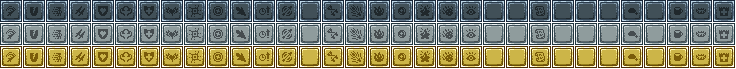
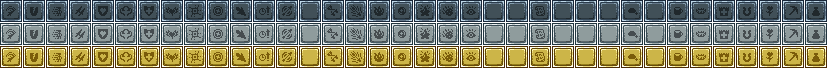
explorer & screen resize stuff wip

diff --git a/Content/UI/SkillTreeUI.cs b/Content/UI/SkillTreeUI.cs
@@ -89,7 +89,7 @@ public class TraitButtonUIElement : UIElement
 
         var texture = Textures.Icons.Value;
 
-        var rect = texture.Frame(32, 3, type, GetTraitTier(data.role, data.row, data.index), -1, -1);
+        var rect = texture.Frame(36, 3, type, GetTraitTier(data.role, data.row, data.index), -1, -1);
         var scale = Scale;
 
         Vector2 origin = rect.Size() * 0.5f;
@@ -156,6 +156,8 @@ public class TraitButtonUIElement : UIElement
     public (string role, int row, int index) data = new();
 
     public (string subRole, string name) id = new();
+
+    public Vector2 position = new();
     #endregion
 
     #region Events
@@ -283,41 +285,7 @@ public class TraitButtonUIElement : UIElement
         var sub = "Warrior";
         var first = data.row % 2 == 0;
 
-        switch (data.role)
-        {
-            case "Melee":
-                if (!first)
-                    sub = "Tank";
-
-                break;
-
-            case "Ranger":
-                if (first)
-                    sub = "Sharpshooter";
-
-                else
-                    sub = "Archer";
-
-                break;
-
-            case "Mage":
-                if (first)
-                    sub = "Sorcerer";
-
-                else
-                    sub = "Wizard";
-
-                break;
-
-            default:
-                if (first)
-                    sub = "Commander";
-
-                else
-                    sub = "Defender";
-
-                break;
-        }
+        sub = GetSubRole(data.role, data.row);
 
 
         id.name = GetName(data.role, data.row, data.index);
@@ -417,6 +385,13 @@ public class TraitButtonUIElement : UIElement
         }
     }
 
+    public override void Recalculate()
+    {
+        base.Recalculate();
+        
+        if ()
+    }
+
     public static string GetRole(int row)
     {
         var role = row switch
@@ -424,16 +399,15 @@ public class TraitButtonUIElement : UIElement
             < 2 => "Melee",
             < 4 => "Ranger",
             < 6 => "Mage",
-            _ => "Summoner",
+            < 8 => "Summoner",
+            _ => "Other"
         };
 
         return role;
     }
 
-    public static string GetName(string role, int row, int index)
+    public static string GetSubRole(string role, int row)
     {
-        string name = "";
-
         var sub = "Warrior";
         var first = row % 2 == 0;
 
@@ -463,7 +437,7 @@ public class TraitButtonUIElement : UIElement
 
                 break;
 
-            default:
+            case "Summoner":
                 if (first)
                     sub = "Commander";
 
@@ -471,9 +445,20 @@ public class TraitButtonUIElement : UIElement
                     sub = "Defender";
 
                 break;
+
+            default:
+                sub = "Explorer";
+                break;
         }
 
-        name = Language.GetTextValue($"Mods.MordhauProgression.Traits.{role}.{sub}.{index}.Name");
+        return sub;
+    }
+
+    public static string GetName(string role, int row, int index)
+    {
+        var sub = GetSubRole(role, row);
+
+        var name = Language.GetTextValue($"Mods.MordhauProgression.Traits.{role}.{sub}.{index}.Name");
 
         return name;
     }
@@ -497,9 +482,9 @@ public class TraitButtonUIState : UIState
                 player.SkillTree.Add(i, []);
 
 
-            var screenHalved = new Vector2(Main.instance.GraphicsDevice.Viewport.Width / 2, Main.instance.GraphicsDevice.Viewport.Height / 2 - 40 - 100);
+            var screenHalved = new Vector2(screenSizeDefault.X / 2, screenSizeDefault.Y / 2 - 40 - 100);
 
-            for (int x = 0; x < 8; x++)
+            for (int x = 0; x < 9; x++)
             {
                 for (int y = 0; y < 4; y++)
                 {
@@ -509,15 +494,20 @@ public class TraitButtonUIState : UIState
                     var pos = new Vector2(x * 140 - 10 * (x % 2) - 33 - 485, y * 100);
                     pos += screenHalved;
 
+                    if (x == 8)
+                        pos.X = screenHalved.X - 150 - 33 - 485;
+
+                    pos *= new Vector2(Main.instance.GraphicsDevice.Viewport.Width, Main.instance.GraphicsDevice.Viewport.Height) / screenSizeDefault;
+
                     button.Left.Set(pos.X, 0f);
                     button.Top.Set(pos.Y, 0f);
 
                     button.Width.Set(66, 0);
                     button.Height.Set(66, 0);
-                    button.MinWidth.Set(66, 0);
-                    button.MaxWidth.Set(66, 0);
-                    button.MaxHeight.Set(66, 0);
-                    button.MinHeight.Set(66, 0);
+                    button.MinWidth.Set(33, 0);
+                    button.MaxWidth.Set(132, 0);
+                    button.MaxHeight.Set(132, 0);
+                    button.MinHeight.Set(33, 0);
 
                     button.type = y + x * 4;
 

diff --git a/Content/UIPlayer.cs b/Content/UIPlayer.cs
@@ -32,7 +32,7 @@ public class UIPlayer : ModPlayer
         TraitTiersData.Clear();
         ArmorTiersData.Clear();
 
-        for (int x = 0; x < 8; x++)
+        for (int x = 0; x < 9; x++)
         {
             for (int y = 0; y < 4; y++)
             {
@@ -208,7 +208,6 @@ public class UIPlayer : ModPlayer
             ModContent.GetInstance<TraitButtonUISystem>()?.Hide();
             ModContent.GetInstance<ArmorUISystem>()?.Hide();
             ModContent.GetInstance<RoleUISystem>()?.Hide();
-            //ModContent.GetInstance<TooltipUISystem>()?.Hide();
             ModContent.GetInstance<ArmorCoinUISystem>()?.Show();
         }
 
@@ -216,7 +215,7 @@ public class UIPlayer : ModPlayer
             return;
 
         SubRoleLevel.Clear();
-        for (int i = 0; i < 8; i++)
+        for (int i = 0; i < 9; i++)
             SubRoleLevel.Add((i, 0));
 
 

diff --git a/Common/GlobalUsings.cs b/Common/GlobalUsings.cs
@@ -3,3 +3,4 @@ global using Color = Microsoft.Xna.Framework.Color;
 global using Rectangle = Microsoft.Xna.Framework.Rectangle;
 
 global using static Microsoft.Xna.Framework.MathHelper;
+global using static MordhauProgression.Common.Constants;

diff --git a/Common/Helpers.cs b/Common/Helpers.cs
@@ -1,0 +1,6 @@
+namespace MordhauProgression.Common;
+
+public static class Constants
+{
+    public static Vector2 screenSizeDefault = new(1920, 1080);
+}
